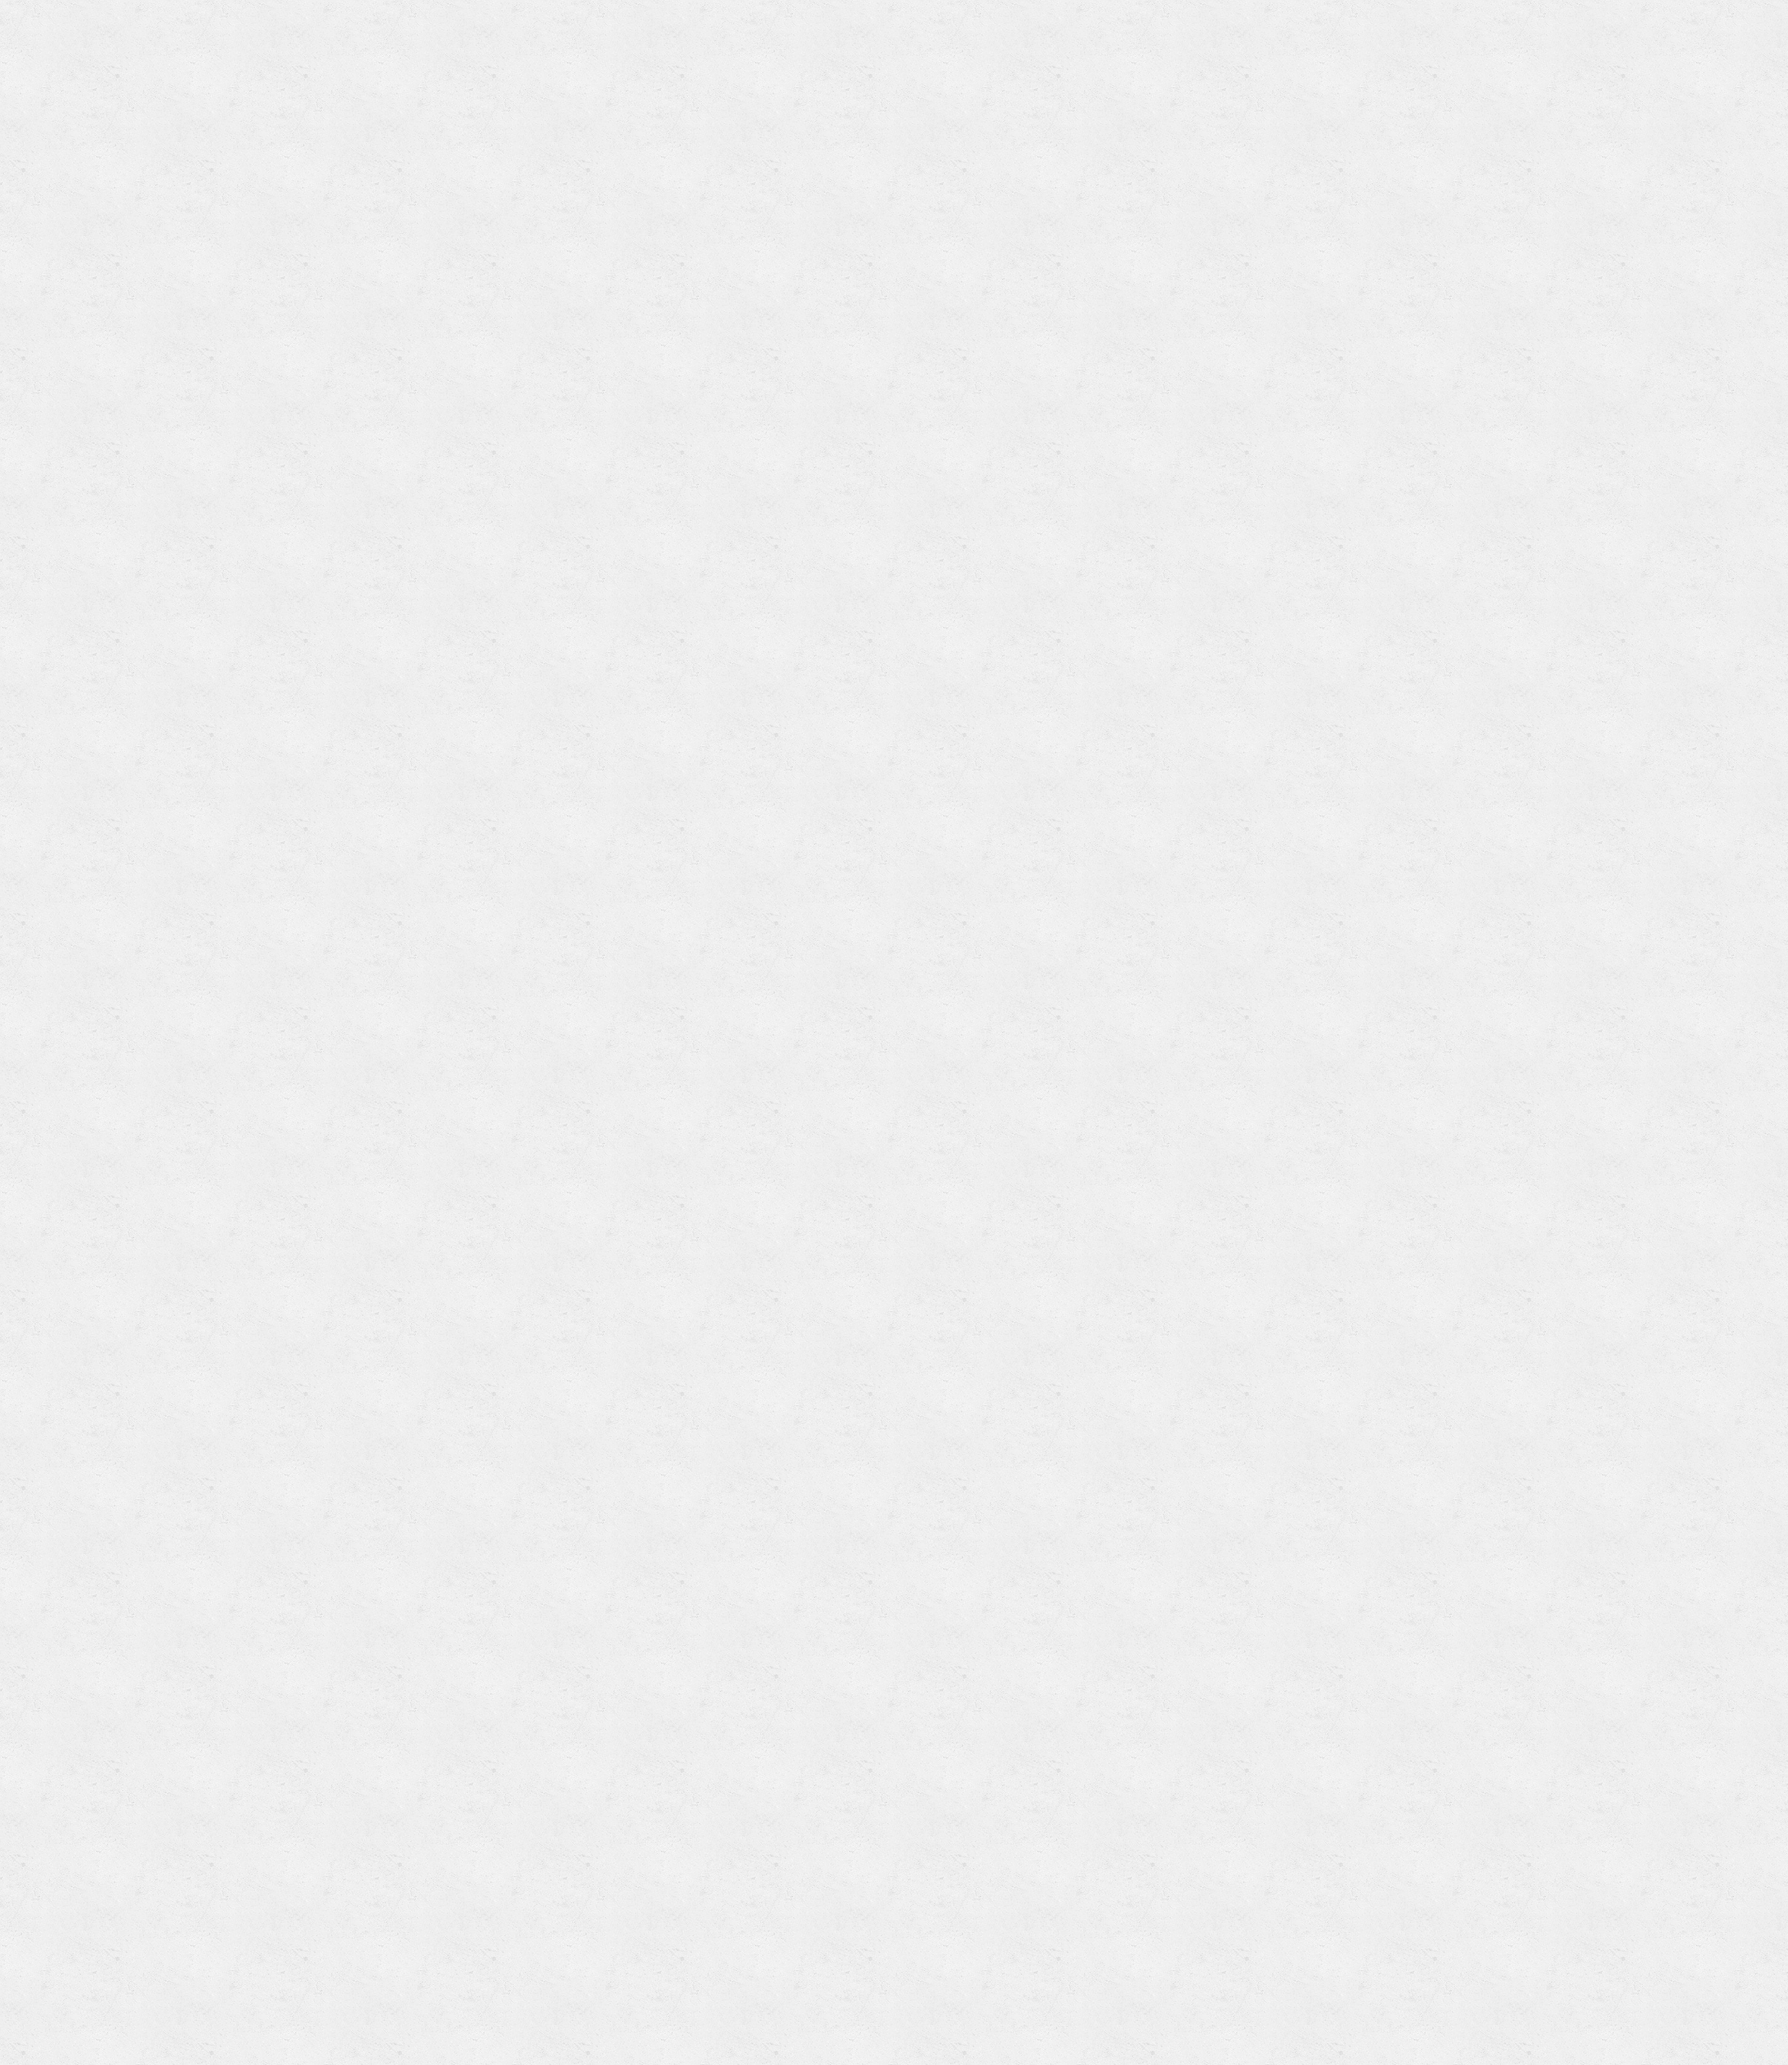
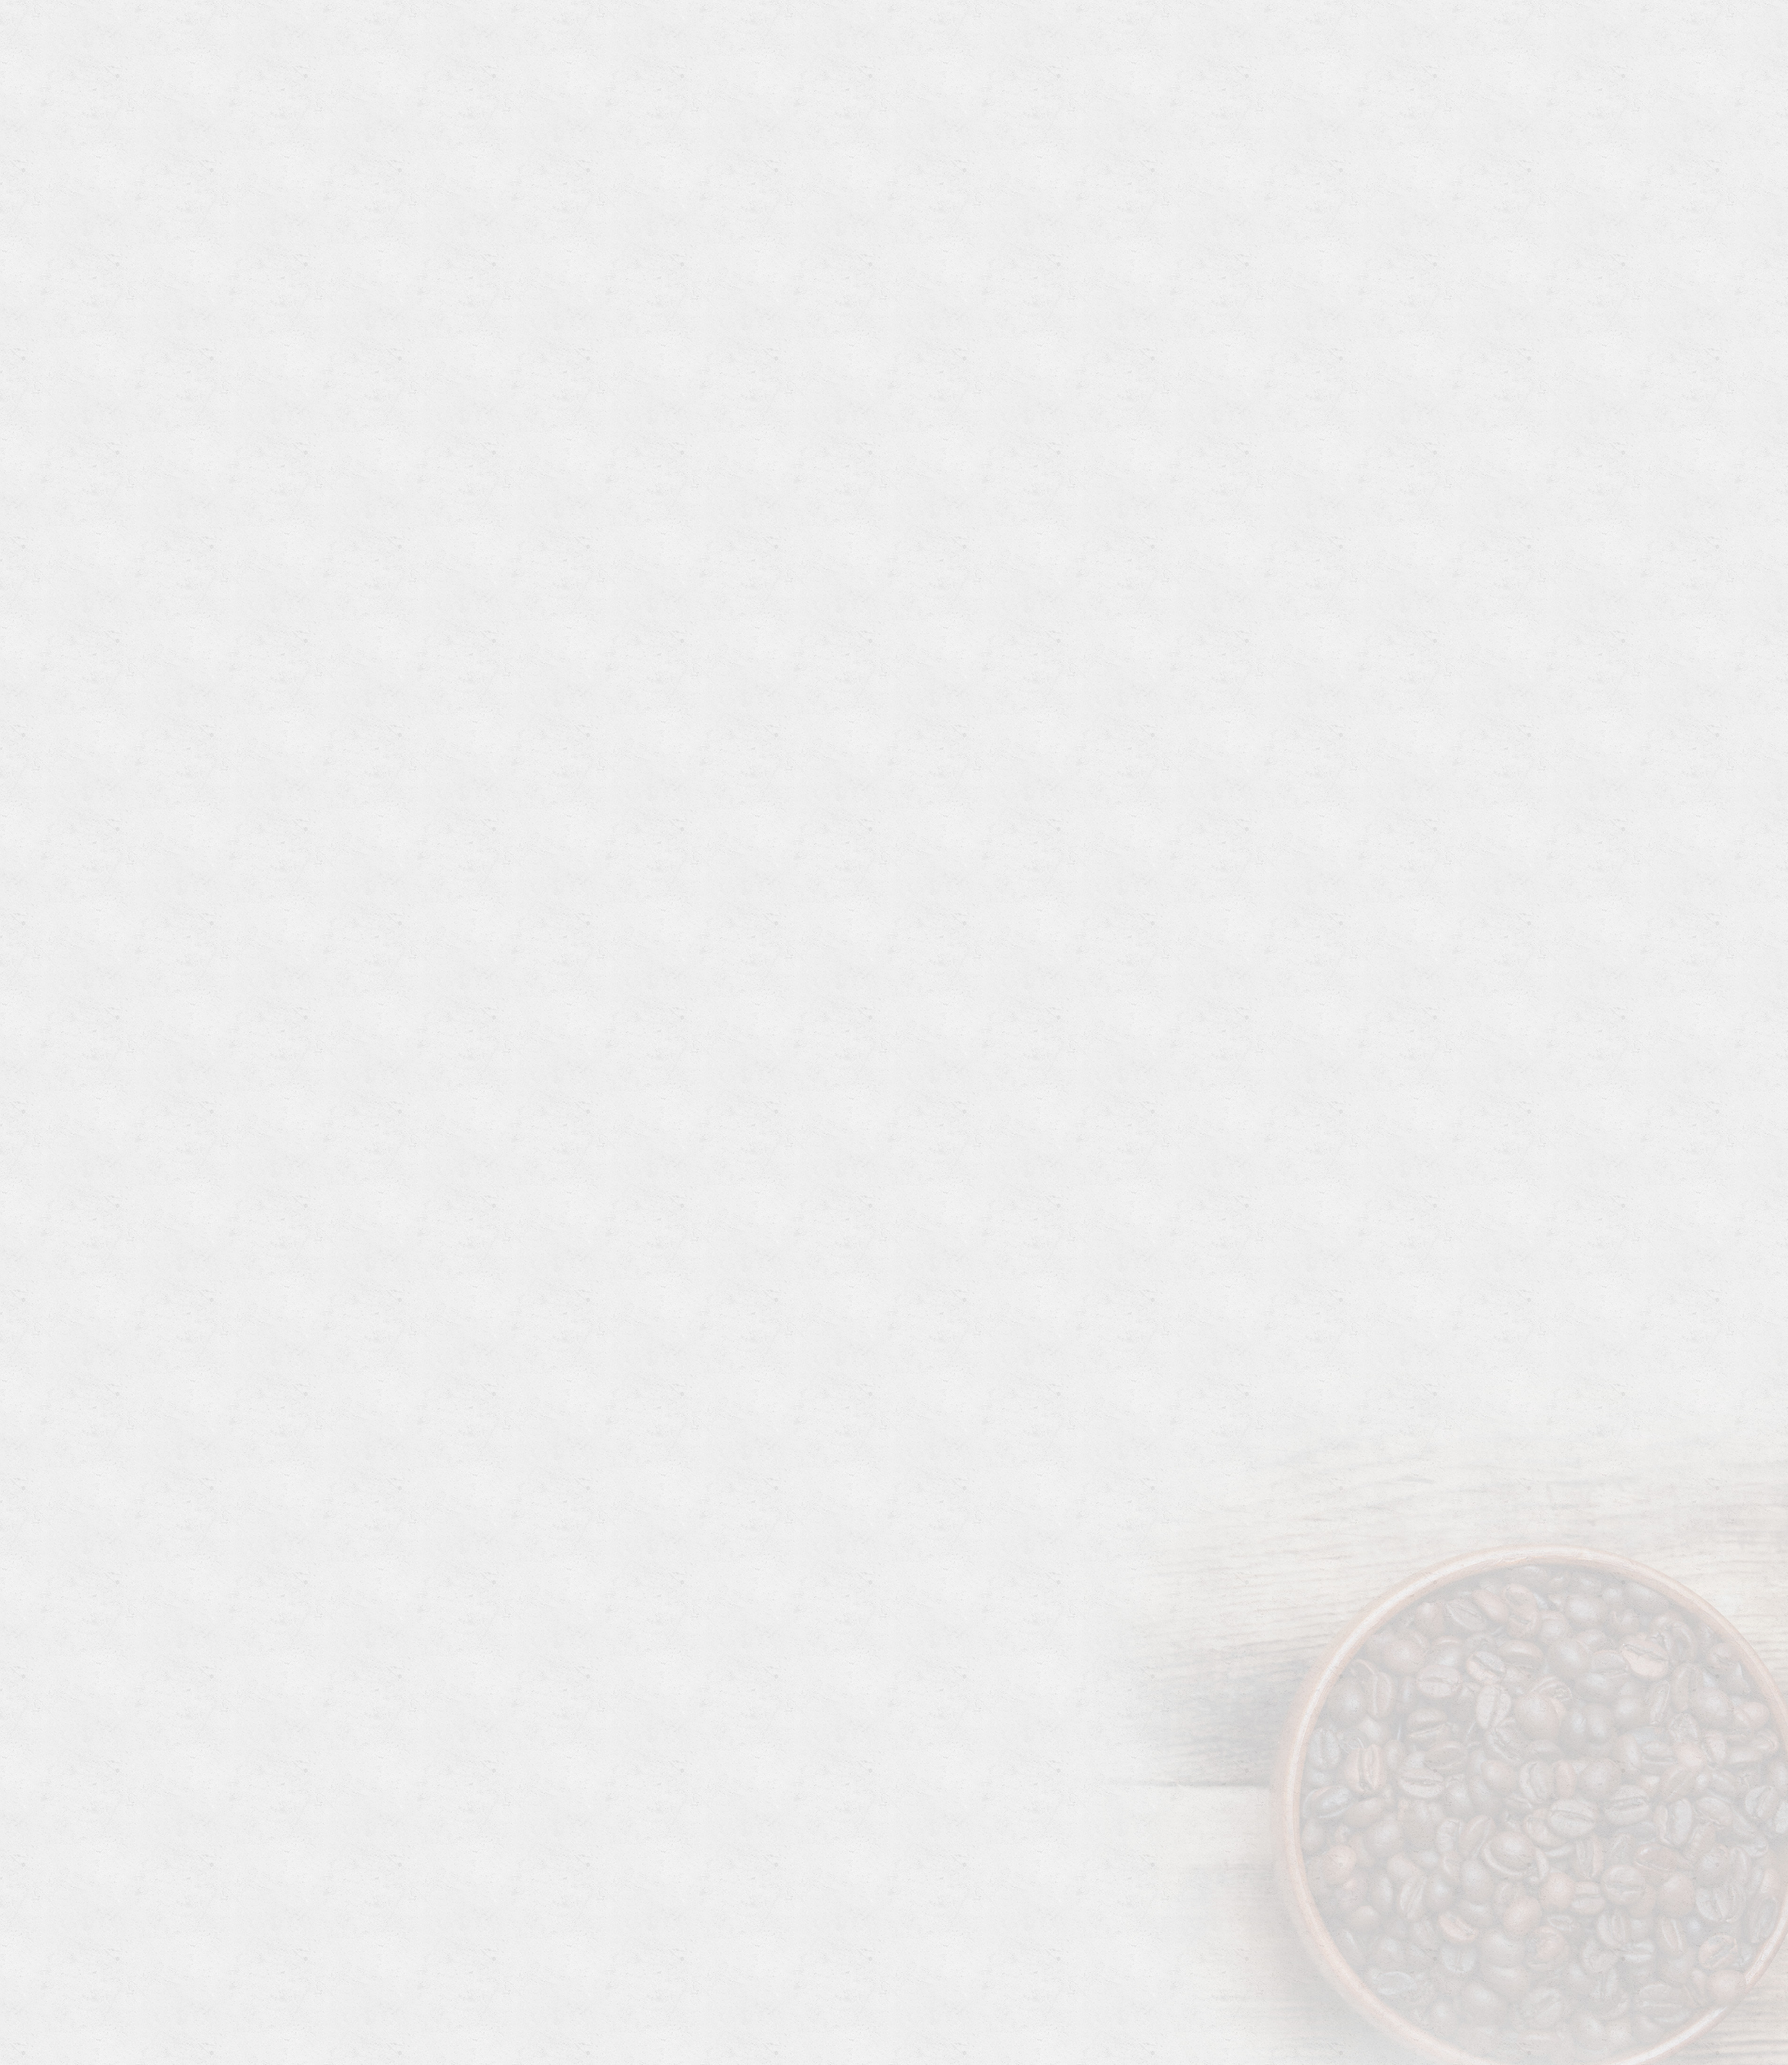
program table, adding proper background to program

Changed region(s): [[0.6832, 0.7495, 1.0, 1.0]]

diff --git a/src/sections/program/list/List.tsx b/src/sections/program/list/List.tsx
@@ -7,12 +7,12 @@ interface ItemProps {
 const Item = ({ title, content }: ItemProps) => {
   const contentArr = content.split("<br />");
   return (
-    <div style={{ width: "30%"}}>
+    <div style={{ width: "30%" }}>
       <hr />
       <h5 className="mb-3">{title}</h5>
       <div>
         {contentArr.map((text) => (
-          <p>{text}</p>
+          <p style={{fontSize: 8}}>{text}</p>
         ))}
       </div>
     </div>
@@ -22,12 +22,10 @@ const Item = ({ title, content }: ItemProps) => {
 export const List = () => {
   const list = useText("program.list") as any;
   return (
-    <div className="position-relative w-100 d-flex justify-content-center">
-      <div className="w-75 d-flex justify-content-between">
-        {[list["1"], list["2"], list["3"]].map((item) => (
-          <Item {...item} />
-        ))}
-      </div>
+    <div className="d-flex justify-content-between">
+      {[list["1"], list["2"], list["3"]].map((item) => (
+        <Item {...item} />
+      ))}
     </div>
   );
 };

diff --git a/src/sections/program/tabs/Tabs.tsx b/src/sections/program/tabs/Tabs.tsx
@@ -7,20 +7,16 @@ export const Tabs = () => {
   const [selected, setSelected] = useState("1");
   const { basic, premium, platinum } = useText("program.tabs");
   return (
-    <div className="d-flex justify-content-center mb-5">
-      <div className="w-75">
-        <TabsBootstrap
-          activeKey={selected}
-          onSelect={(k) => setSelected(k as string)}
-          className="mb-3"
-        >
-          <Tab eventKey="1" title={basic}>
-            <Basic />
-          </Tab>
-          <Tab eventKey="2" title={premium}></Tab>
-          <Tab eventKey="3" title={platinum}></Tab>
-        </TabsBootstrap>
-      </div>
-    </div>
+    <TabsBootstrap
+      activeKey={selected}
+      onSelect={(k) => setSelected(k as string)}
+      className="mb-3"
+    >
+      <Tab eventKey="1" title={basic}>
+        <Basic />
+      </Tab>
+      <Tab eventKey="2" title={premium}></Tab>
+      <Tab eventKey="3" title={platinum}></Tab>
+    </TabsBootstrap>
   );
 };

diff --git a/src/sections/program/table/Table.tsx b/src/sections/program/table/Table.tsx
@@ -1,0 +1,30 @@
+import { useText } from "commons/custom-hooks";
+import { Table as TableBootstrap } from "react-bootstrap";
+import includedSrc from "assets/images/program/included.png";
+import notIncludedSrc from "assets/images/program/not-included.png";
+
+interface TableText {
+  title: string;
+  rows: { included: boolean; text: string }[];
+}
+
+export const Table = () => {
+  const { title, rows } = useText<TableText>("program.table");
+  return (
+    <>
+      <h5>{title}</h5>
+      <TableBootstrap striped bordered hover className="w-auto">
+        {rows.map(({ included, text }) => (
+          <tr>
+            <td>
+              <img src={included ? includedSrc : notIncludedSrc} />
+            </td>
+            <td>
+              <p style={{ fontSize: 8 }}>{text}</p>
+            </td>
+          </tr>
+        ))}
+      </TableBootstrap>
+    </>
+  );
+};

diff --git a/src/sections/program/title/Title.tsx b/src/sections/program/title/Title.tsx
@@ -6,11 +6,13 @@ export const Title = () => {
   const { weShare } = useText("program");
   return (
     <>
-      <div className="text-center my-5">
+      <div className="text-center">
         <img className="mx-5" src={startSrc} width={15} />
         <img src={titleSrc} width="22%" />
         <img className="mx-5" src={startSrc} width={15} />
-        <p className="my-2" style={{fontSize: 10}}>{weShare}</p>
+        <p className="my-2" style={{ fontSize: 10 }}>
+          {weShare}
+        </p>
       </div>
     </>
   );

diff --git a/src/sections/program/Program.tsx b/src/sections/program/Program.tsx
@@ -1,13 +1,19 @@
 import { Tabs } from "./tabs";
 import { List } from "./list";
 import { Title } from "./title";
+import { Table } from "./table";
 
 export const Program = () => {
   return (
-    <>
-      <Title />
-      <Tabs />
-      <List />
-    </>
+    <div className="d-flex justify-content-center">
+      <div className="w-50">
+        <Title />
+        <Tabs />
+        <div className="mb-5">
+          <List />
+        </div>
+        <Table />
+      </div>
+    </div>
   );
 };

diff --git a/src/sections/program/table/index.ts b/src/sections/program/table/index.ts
@@ -1,0 +1,1 @@
+export * from "./Table";
